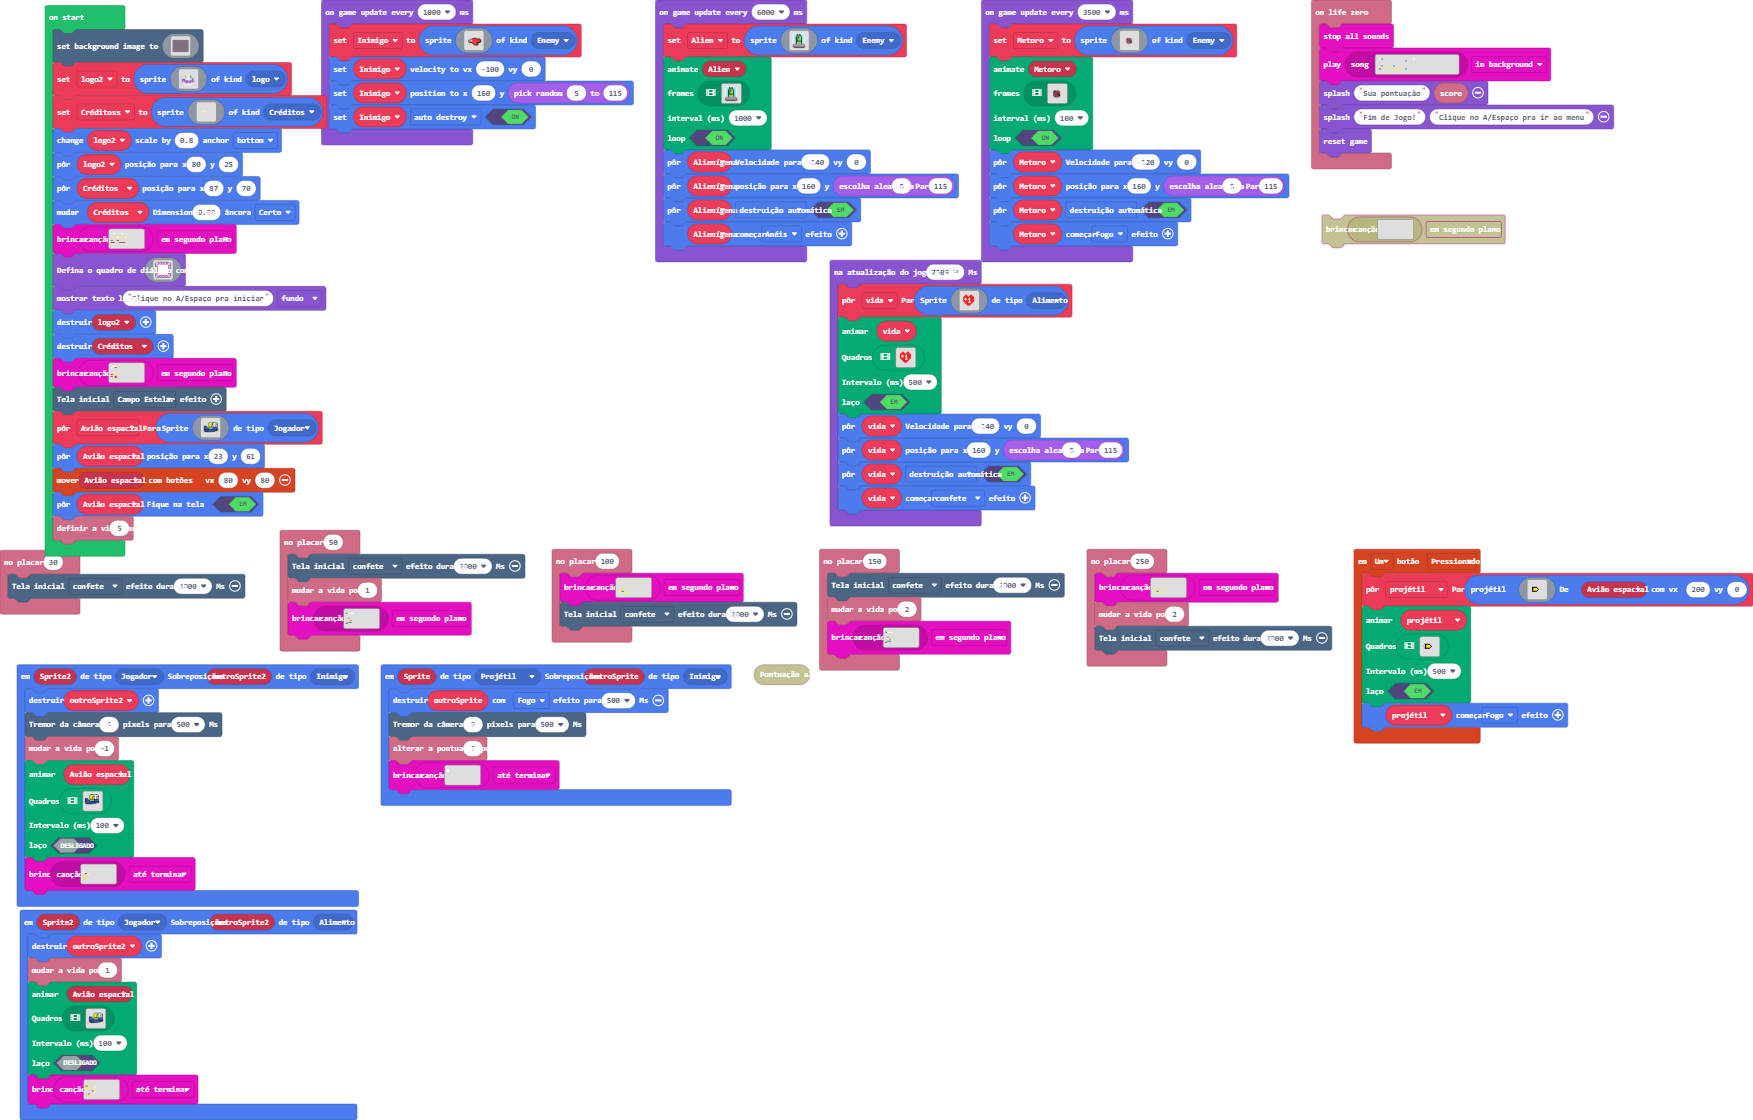
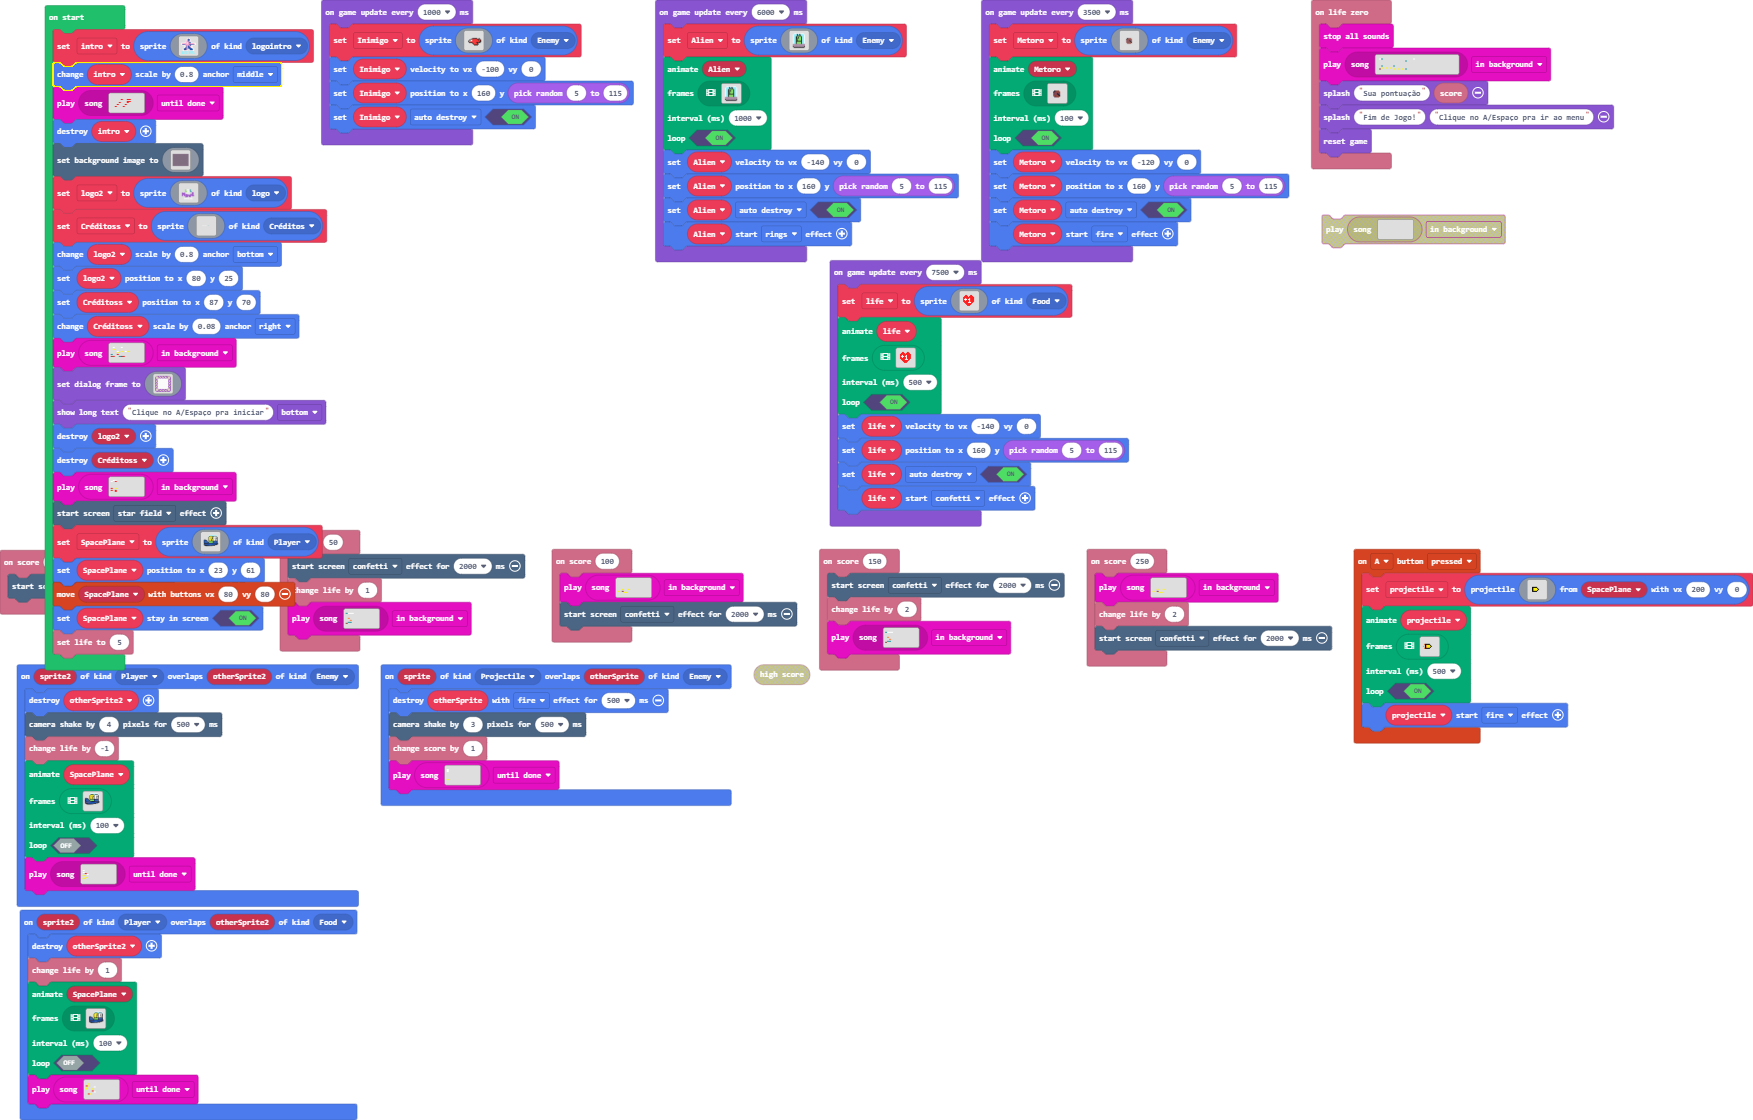
Update main.blocks, main.ts, images.g.jres, images.g.ts

diff --git a/images.g.ts b/images.g.ts
@@ -316,6 +316,39 @@ cccccccccccccccccccccccccccccccccccccccccccccccccccccccccccccccccccccccccccccccc
 . . . . . . . . . . . . . . . . 
 . . . . . . . . . . . . . . . . 
 `;
+            case "image5":
+            case "logo ntro":return img`
+.............111..............
+............11c11.............
+...........1338cc1............
+...........13388c1............
+...........13388c1............
+..........133388331...........
+..........133383331...........
+..........133333381...........
+.........13313338881..........
+.111111111311138888111111111..
+.113333333331333333333333311..
+.113333333313133333333333311..
+.1188888833333338888888ccc11..
+...11111133333333888111111....
+.......111833383338111........
+.......111833388333111........
+.......111833388833111........
+......11188333888833111.......
+......11188333888883111.......
+......18888333888888811.......
+....11c888833c11888888811.....
+....11c8888331..188888811.....
+....11ccccc331..188888811.....
+....111111111....11111111.....
+..............................
+..999..9.999.9.9999.999.9.....
+..99.9...9.....9999.9.9.9.....
+..99.9.9.9.9.9..99..999.9.....
+..99.9.9.9.9.9..99..9.9.9.....
+..9999.9.999.9..99..9.9.999...
+`;
         }
         return null;
     })
@@ -1290,9 +1323,11 @@ f88888888888888888888ffff.....
             case "song4":
[1 lines of base64/hex data omitted]
             case "song3":
[2 lines of base64/hex data omitted]
             case "song8":
[2 lines of base64/hex data omitted]
+            case "song9":
[1 lines of base64/hex data omitted]
         }
         return null;
     })

diff --git a/main.ts b/main.ts
@@ -3,6 +3,7 @@ namespace SpriteKind {
     export const Créditos = SpriteKind.create()
     export const Ready = SpriteKind.create()
     export const Bubble = SpriteKind.create()
+    export const logointro = SpriteKind.create()
 }
 info.onScore(250, function () {
     music.play(music.createSong(assets.song`Parabéns`), music.PlaybackMode.InBackground)
@@ -78,6 +79,10 @@ let Inimigo: Sprite = null
 let life: Sprite = null
 let projectile: Sprite = null
 let SpacePlane: Sprite = null
+let intro = sprites.create(assets.image`logo ntro`, SpriteKind.logointro)
+intro.changeScale(0.8, ScaleAnchor.Middle)
+music.play(music.createSong(assets.song`intro music`), music.PlaybackMode.UntilDone)
+sprites.destroy(intro)
 scene.setBackgroundImage(assets.image`Fundo de espaço`)
 let logo2 = sprites.create(assets.image`Logo - Lili e Lilão em Nave Espacial`, SpriteKind.logo)
 let Créditoss = sprites.create(img`
